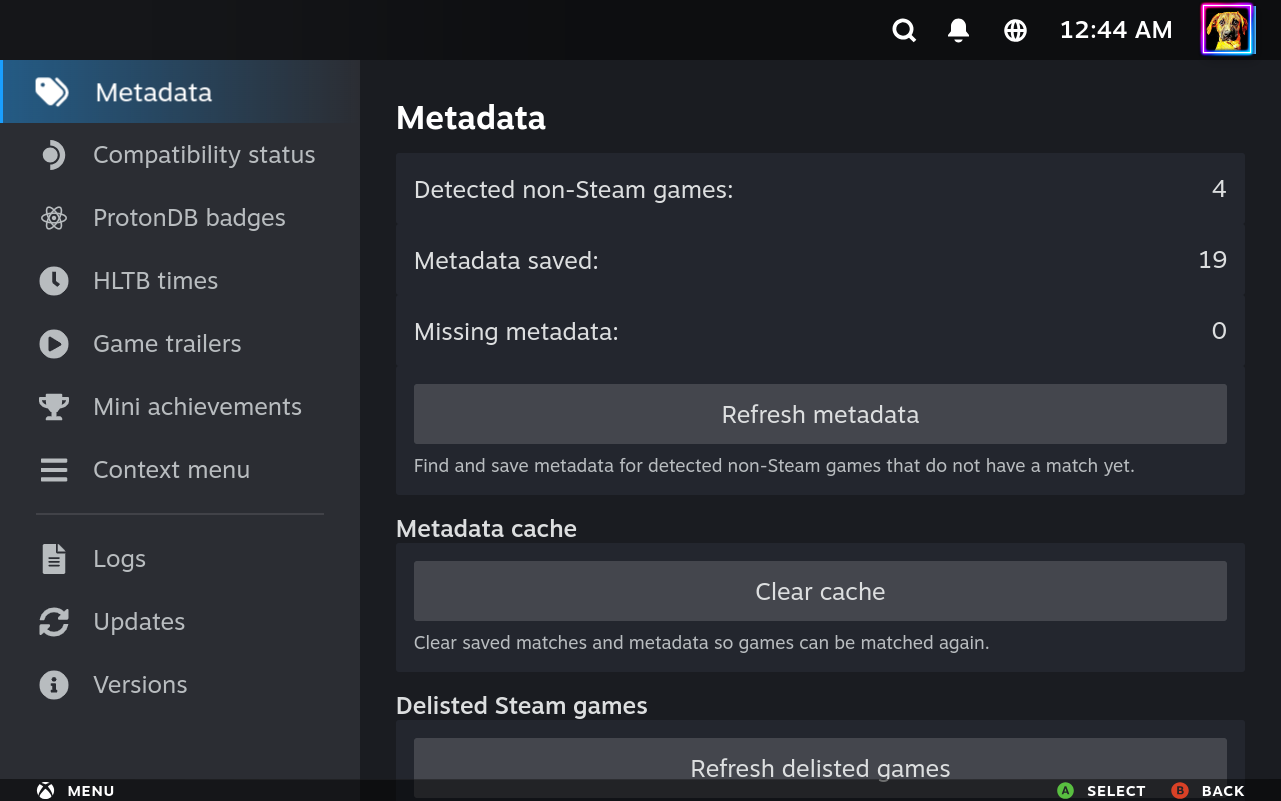
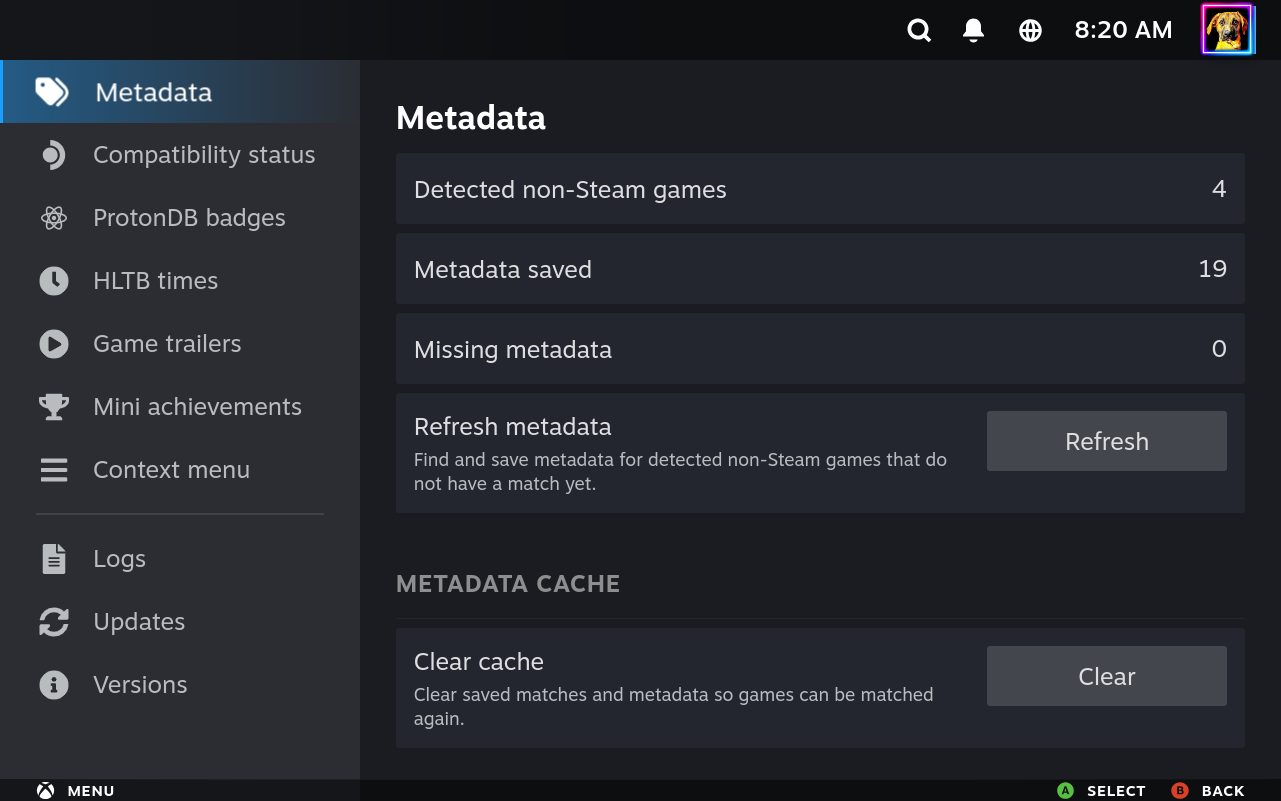
docs(readme): recapture the QAM and Settings images
- New Steam-style Settings layout and the QAM without label colons.
- Bump both cacheBuster values to 202611240820.

diff --git a/README.md b/README.md
@@ -11,7 +11,7 @@ watch game trailers.
 For Steam games, you can restore the small achievement progress bar beside
 Play Time.
 
-![Decky Metadata in the Quick Access Menu](assets/decky-metadata-qam.png?cacheBuster=20261124)
+![Decky Metadata in the Quick Access Menu](assets/decky-metadata-qam.png?cacheBuster=202611240820)
 
 ## Install
 
@@ -47,7 +47,7 @@ from a settings page to the tab list, then press **B** again to close Settings.
 Opening Settings from a game's page leaves that page. The **Metadata** tab
 includes **Clear cache** and **Delisted Steam games**.
 
-![Decky Metadata Settings page on the Metadata tab](assets/decky-metadata-settings.png?cacheBuster=20261124)
+![Decky Metadata Settings page on the Metadata tab](assets/decky-metadata-settings.png?cacheBuster=202611240820)
 
 To edit a non-Steam game, select **Edit Metadata...** from the Library card's
 **Options** menu or from the gear menu on the game page. The editor has a
